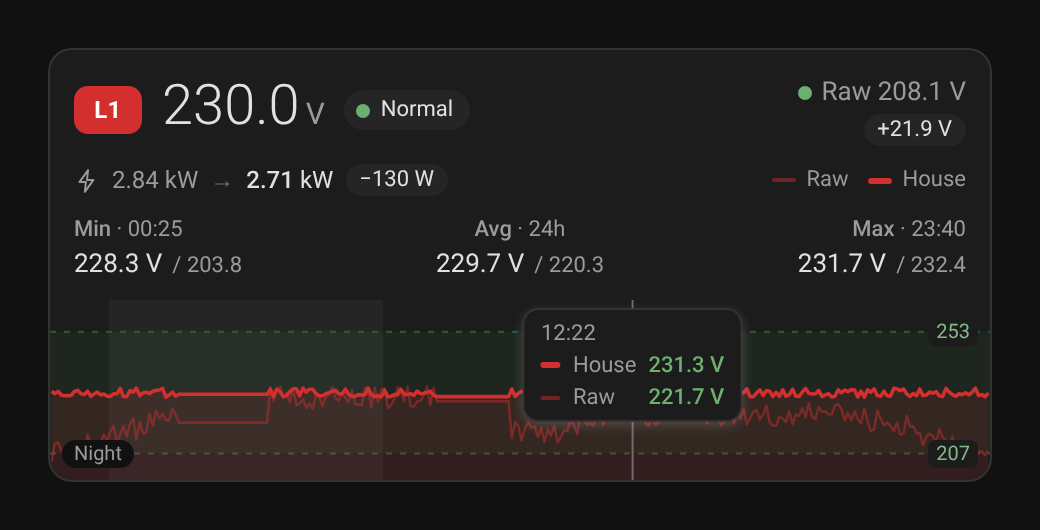
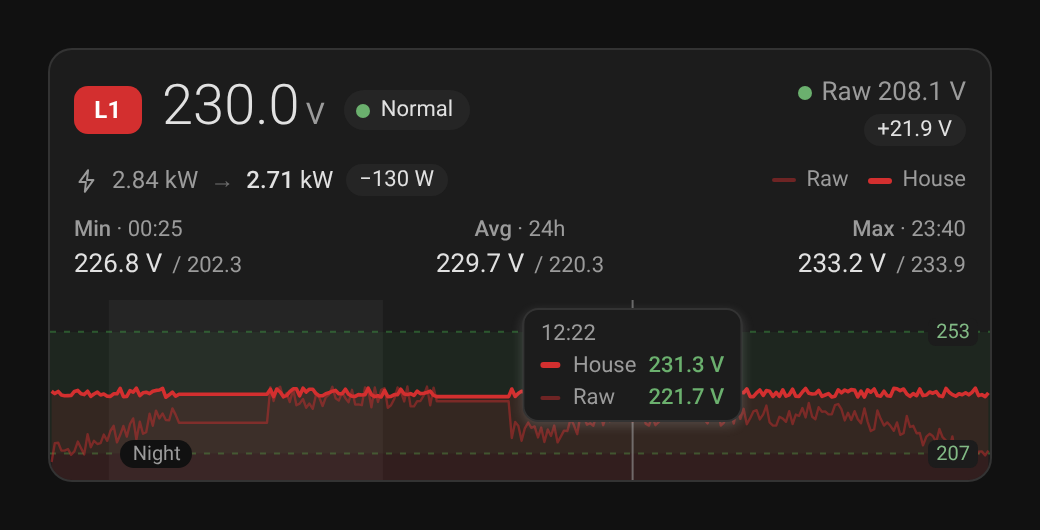
Lay out single-phase panels side by side and tell black and white apart
A phase color that blends into the card switched its chart line to the
text color, so a black phase on a dark theme and a white phase looked
the same. Blend such colors with the text color instead.

Several phases in the single view are now separate panels in a
responsive grid: three in a row when each gets 300 px, two per row
with an odd last panel spanning the row, one per row on phones. Narrow
panels switch to a compact header so the rows stay aligned. One card
with full width now fills desktops, tablets and phones.

diff --git a/src/card/styles.ts b/src/card/styles.ts
@@ -19,6 +19,13 @@ export const cardStyles = css`
     box-sizing: border-box;
   }
 
+  ha-card.bare {
+    overflow: visible;
+    border: none;
+    background: none;
+    box-shadow: none;
+  }
+
   .view-all {
     display: flex;
     flex-direction: column;
@@ -34,8 +41,21 @@ export const cardStyles = css`
     color: var(--primary-text-color);
   }
 
+  .view-single {
+    display: flex;
+    flex-direction: column;
+    gap: 8px;
+    container-type: inline-size;
+  }
+
   .view-single .title {
-    padding: 12px 12px 0;
+    padding: 4px 4px 0;
+  }
+
+  .panels {
+    display: grid;
+    grid-template-columns: repeat(auto-fit, minmax(min(100%, 300px), 1fr));
+    gap: 8px;
   }
 
   .tone-normal {
@@ -333,13 +353,18 @@ export const cardStyles = css`
     font-size: inherit;
   }
 
-  .view-single .panel + .panel {
-    border-top: 1px solid var(--divider-color);
-  }
-
   .panel {
     display: flex;
     flex-direction: column;
+    justify-content: space-between;
+    min-width: 0;
+    container-type: inline-size;
+    overflow: hidden;
+    box-sizing: border-box;
+    border: var(--ha-card-border-width, 1px) solid var(--ha-card-border-color, var(--divider-color));
+    border-radius: var(--ha-card-border-radius, 12px);
+    background: var(--ppc-card);
+    box-shadow: var(--ha-card-box-shadow, none);
   }
 
   .panel-body {
@@ -519,6 +544,41 @@ export const cardStyles = css`
     margin-left: 5px;
     font-size: 11px;
     color: var(--secondary-text-color);
+  }
+
+  @container (min-width: 608px) and (max-width: 915.98px) {
+    .panel:last-child:nth-child(odd) {
+      grid-column: 1 / -1;
+    }
+  }
+
+  @container (max-width: 349.98px) {
+    .panel-head {
+      flex-direction: column;
+      align-items: flex-start;
+      gap: 4px;
+    }
+
+    .head-side {
+      flex-direction: row;
+      align-items: center;
+      gap: 8px;
+      margin-left: 0;
+    }
+
+    .voltage-large {
+      font-size: 24px;
+      line-height: 28px;
+    }
+
+    .panel-meta {
+      flex-direction: column;
+      align-items: flex-start;
+    }
+
+    .legend {
+      margin-left: 0;
+    }
   }
 
   @media (max-width: 420px) {

diff --git a/test/color.test.ts b/test/color.test.ts
@@ -1,0 +1,50 @@
+import { describe, expect, it } from 'vitest';
+import {
+  contrastRatio,
+  hexToRgb,
+  phaseAppearance,
+  readableTextOn,
+  rgbToHex,
+} from '../src/logic/color';
+
+describe('phaseAppearance', () => {
+  it('keeps colors that stand out on the card', () => {
+    expect(phaseAppearance('#d32f2f', true).line).toBe('#d32f2f');
+    expect(phaseAppearance('#000000', false).line).toBe('#000000');
+    expect(phaseAppearance('#f7f7f7', true).line).toBe('#f7f7f7');
+  });
+
+  it('blends colors that disappear on the card with the text color', () => {
+    expect(phaseAppearance('#000000', true).line).toBe(
+      'color-mix(in srgb, #000000 50%, var(--primary-text-color))',
+    );
+    expect(phaseAppearance('#ffffff', false).line).toBe(
+      'color-mix(in srgb, #ffffff 50%, var(--primary-text-color))',
+    );
+  });
+
+  it('gives black and white phases different lines in both themes', () => {
+    expect(phaseAppearance('#000000', true).line).not.toBe(phaseAppearance('#f7f7f7', true).line);
+    expect(phaseAppearance('#000000', false).line).not.toBe(phaseAppearance('#f7f7f7', false).line);
+  });
+
+  it('outlines badges that blend into the card', () => {
+    expect(phaseAppearance('#ffffff', false).outlined).toBe(true);
+    expect(phaseAppearance('#000000', true).outlined).toBe(true);
+    expect(phaseAppearance('#d32f2f', true).outlined).toBe(false);
+  });
+});
+
+describe('color helpers', () => {
+  it('converts between hex and rgb', () => {
+    expect(hexToRgb('#d32f2f')).toEqual([211, 47, 47]);
+    expect(hexToRgb('#fff')).toEqual([255, 255, 255]);
+    expect(rgbToHex([211, 47, 47])).toBe('#d32f2f');
+  });
+
+  it('picks readable badge text', () => {
+    expect(readableTextOn('#000000')).toBe('#ffffff');
+    expect(readableTextOn('#f7f7f7')).toBe('#000000');
+    expect(contrastRatio('#000000', '#ffffff')).toBeCloseTo(21, 5);
+  });
+});

diff --git a/src/card/views/single-view.ts b/src/card/views/single-view.ts
@@ -230,10 +230,11 @@ const renderPanel = (phase: PhaseModel, context: ViewContext): TemplateResult =>
 
 export const singleView: CardView = {
   usesHistory: true,
+  surface: 'bare',
   render: (context) =>
     html`<div class="view view-single">
       ${context.settings.title ? html`<h2 class="title">${context.settings.title}</h2>` : nothing}
-      ${context.phases.map((phase) => renderPanel(phase, context))}
+      <div class="panels">${context.phases.map((phase) => renderPanel(phase, context))}</div>
     </div>`,
   cardSize: (settings) => (settings.title ? 1 : 0) + settings.phases.length * 5,
 };

diff --git a/src/logic/color.ts b/src/logic/color.ts
@@ -66,6 +66,7 @@ export const phaseAppearance = (color: string, darkMode: boolean): PhaseAppearan
     background: color,
     foreground: readableTextOn(color),
     outlined: contrast < OUTLINE_BELOW,
-    line: contrast < LINE_BELOW ? 'var(--primary-text-color)' : color,
+    line:
+      contrast < LINE_BELOW ? `color-mix(in srgb, ${color} 50%, var(--primary-text-color))` : color,
   };
 };

diff --git a/src/card/views/types.ts b/src/card/views/types.ts
@@ -12,8 +12,11 @@ export interface ViewContext {
   readonly openMoreInfo: (entityId: string) => void;
 }
 
+export type CardSurface = 'framed' | 'bare';
+
 export interface CardView {
   readonly usesHistory: boolean;
+  readonly surface: CardSurface;
   readonly render: (context: ViewContext) => TemplateResult;
   readonly cardSize: (settings: CardSettings) => number;
 }

diff --git a/src/card/views/all-view.ts b/src/card/views/all-view.ts
@@ -161,6 +161,7 @@ const renderRow = (phase: PhaseModel, context: ViewContext): TemplateResult => {
 
 export const allView: CardView = {
   usesHistory: false,
+  surface: 'framed',
   render: (context) =>
     html`<div class="view view-all">
       ${context.settings.title ? html`<h2 class="title">${context.settings.title}</h2>` : nothing}

diff --git a/src/card/phase-pair-card.ts b/src/card/phase-pair-card.ts
@@ -119,7 +119,7 @@ export class PhasePairCard extends LitElement {
 
     const view = VIEWS[settings.view];
 
-    return html`<ha-card>
+    return html`<ha-card class=${view.surface}>
       ${view.render({
         settings,
         phases: buildPhaseModels(settings, hass),

diff --git a/README.md b/README.md
@@ -20,13 +20,15 @@ It is built for setups with energy meters on both sides of the stabilizers, for 
 | ------------------------------------------------- | ---------------------------------------------------- |
 | ![Phone, edge states](docs/images/phone-edge.png) | ![Phone, three phases](docs/images/phone-single.png) |
 
+![Three phases side by side on a desktop](docs/images/desktop-single.png)
+
 ## Features
 
 - One row per phase: colored phase badge, voltage before → after, signed difference (after − before) and power before → after.
 - Horizontal voltage scale with the normal range highlighted, a nominal tick and two markers: a ring for "before" and a dot for "after".
 - Voltage values are colored by thresholds: normal, warning (outside the normal range) and critical (outside the critical range).
 - Phase imbalance in the header: max − min voltage across phases, separately for "before" and "after".
-- **Single phase** view with a history chart: normal band, critical thresholds, night shading, min / average / max with timestamps and a hover tooltip.
+- **Single phase** view with a history chart: normal band, critical thresholds, night shading, min / average / max with timestamps and a hover tooltip. Several phases in one card are placed side by side when there is room and stacked on narrow screens.
 - Every value is clickable and opens the Home Assistant more-info dialog of its entity; clicking the chart opens the history of the "after" voltage.
 - Handles `unavailable`, `unknown`, missing entities and non-numeric states without breaking the layout.
 - Uses only Home Assistant theme variables, so it follows light, dark and custom themes.
@@ -55,7 +57,7 @@ HACS registers the dashboard resource automatically.
 1. Download `phase-pair-card.js` from the [latest release](https://github.com/RobinCK/lovelace-phase-pair-card/releases/latest).
 2. Copy it to `<config>/www/phase-pair-card.js`.
 3. Go to **Settings → Dashboards → ⋮ → Resources** and add a resource:
-   - URL: `/local/phase-pair-card.js?v=1.0.2`
+   - URL: `/local/phase-pair-card.js?v=1.0.3`
    - Type: **JavaScript module**
 
    If your dashboards are in YAML mode, add it to `configuration.yaml` instead:
@@ -63,7 +65,7 @@ HACS registers the dashboard resource automatically.
    ```yaml
    lovelace:
      resources:
-       - url: /local/phase-pair-card.js?v=1.0.2
+       - url: /local/phase-pair-card.js?v=1.0.3
          type: module
    ```
 
@@ -74,7 +76,7 @@ HACS registers the dashboard resource automatically.
 - **HACS** shows an update as soon as a new release is published. Click **Update** and reload the browser page.
 - **Manual**: replace `phase-pair-card.js` with the file from the new release and bump the `?v=` query in the resource URL so browsers drop the cached copy.
 
-The browser console prints the loaded version (`PHASE-PAIR-CARD v1.0.2`), which is handy to confirm an update.
+The browser console prints the loaded version (`PHASE-PAIR-CARD v1.0.3`), which is handy to confirm an update.
 
 ## Configuration
 
@@ -122,21 +124,21 @@ show_imbalance: true
 
 ### Card options
 
-| Option            | Type              | Default   | Description                                                                                                          |
-| ----------------- | ----------------- | --------- | -------------------------------------------------------------------------------------------------------------------- |
-| `type`            | string            | —         | `custom:phase-pair-card`                                                                                             |
-| `title`           | string            | —         | Card title.                                                                                                          |
-| `view`            | `all` \| `single` | `all`     | `all` shows compact rows with a voltage scale; `single` shows a detailed panel with a history chart for every phase. |
-| `before_label`    | string            | `Before`  | Name of the "before" side, for example the grid input before the stabilizers.                                        |
-| `after_label`     | string            | `After`   | Name of the "after" side, for example the house.                                                                     |
-| `phases`          | list              | required  | Phases to show, see [Phase options](#phase-options).                                                                 |
-| `voltage`         | object            | see below | Voltage thresholds, see [Voltage options](#voltage-options).                                                         |
-| `show_power`      | boolean           | `true`    | Show power before → after for phases that have power sensors.                                                        |
-| `show_delta`      | boolean           | `true`    | Show the difference after − before.                                                                                  |
-| `show_imbalance`  | boolean           | `true`    | `all` view: show the phase imbalance (max − min voltage) for both sides.                                             |
-| `show_before`     | boolean           | `true`    | `single` view: show the "before" value, line and statistics.                                                         |
-| `hours_to_show`   | number            | `24`      | `single` view: history length in hours, from 1 to 168.                                                               |
-| `highlight_night` | boolean           | `true`    | `single` view: shade the night hours (23:00–06:00) on the chart.                                                     |
+| Option            | Type              | Default   | Description                                                                                                                                                     |
+| ----------------- | ----------------- | --------- | --------------------------------------------------------------------------------------------------------------------------------------------------------------- |
+| `type`            | string            | —         | `custom:phase-pair-card`                                                                                                                                        |
+| `title`           | string            | —         | Card title.                                                                                                                                                     |
+| `view`            | `all` \| `single` | `all`     | `all` shows compact rows with a voltage scale; `single` shows a detailed panel with a history chart for every phase, side by side when the card is wide enough. |
+| `before_label`    | string            | `Before`  | Name of the "before" side, for example the grid input before the stabilizers.                                                                                   |
+| `after_label`     | string            | `After`   | Name of the "after" side, for example the house.                                                                                                                |
+| `phases`          | list              | required  | Phases to show, see [Phase options](#phase-options).                                                                                                            |
+| `voltage`         | object            | see below | Voltage thresholds, see [Voltage options](#voltage-options).                                                                                                    |
+| `show_power`      | boolean           | `true`    | Show power before → after for phases that have power sensors.                                                                                                   |
+| `show_delta`      | boolean           | `true`    | Show the difference after − before.                                                                                                                             |
+| `show_imbalance`  | boolean           | `true`    | `all` view: show the phase imbalance (max − min voltage) for both sides.                                                                                        |
+| `show_before`     | boolean           | `true`    | `single` view: show the "before" value, line and statistics.                                                                                                    |
+| `hours_to_show`   | number            | `24`      | `single` view: history length in hours, from 1 to 168.                                                                                                          |
+| `highlight_night` | boolean           | `true`    | `single` view: shade the night hours (23:00–06:00) on the chart.                                                                                                |
 
 ### Phase options
 
@@ -221,7 +223,7 @@ phases:
     after: { voltage: sensor.house_l3_voltage }
 ```
 
-### One card per phase with a 12-hour chart
+### Three phases with charts side by side
 
 ```yaml
 type: custom:phase-pair-card
@@ -232,15 +234,21 @@ hours_to_show: 12
 phases:
   - name: L1
     color: '#d32f2f'
-    before:
-      voltage: sensor.zig_meter_raw_l1_voltage
-      power: sensor.zig_meter_raw_l1_power
-    after:
-      voltage: sensor.zig_meter_house_l1_voltage
-      power: sensor.zig_meter_house_l1_power
+    before: { voltage: sensor.grid_l1_voltage, power: sensor.grid_l1_power }
+    after: { voltage: sensor.house_l1_voltage, power: sensor.house_l1_power }
+  - name: L2
+    color: '#000000'
+    before: { voltage: sensor.grid_l2_voltage, power: sensor.grid_l2_power }
+    after: { voltage: sensor.house_l2_voltage, power: sensor.house_l2_power }
+  - name: L3
+    color: '#ffffff'
+    before: { voltage: sensor.grid_l3_voltage, power: sensor.grid_l3_power }
+    after: { voltage: sensor.house_l3_voltage, power: sensor.house_l3_power }
+grid_options:
+  columns: full
 ```
 
-Add one such card per phase to a section, or list all three phases in a single card as in the phone screenshot above.
+The phases share one row when every phase gets at least 300 px, two per row on medium widths (an odd last phase takes the whole row) and one per row on phones. In a sections dashboard, put the card in a wide section (section width 3 or 4, or `column_span` in YAML) and keep `columns: full` so the card follows the section width on every screen.
 
 ### Stricter thresholds for sensitive equipment
 
